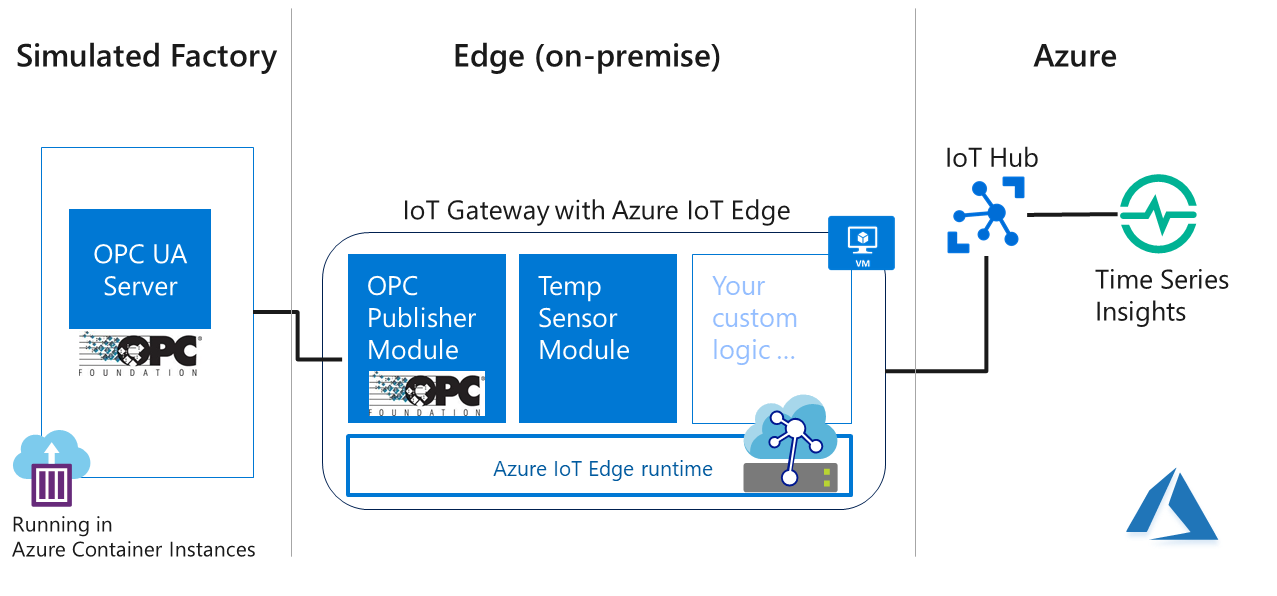
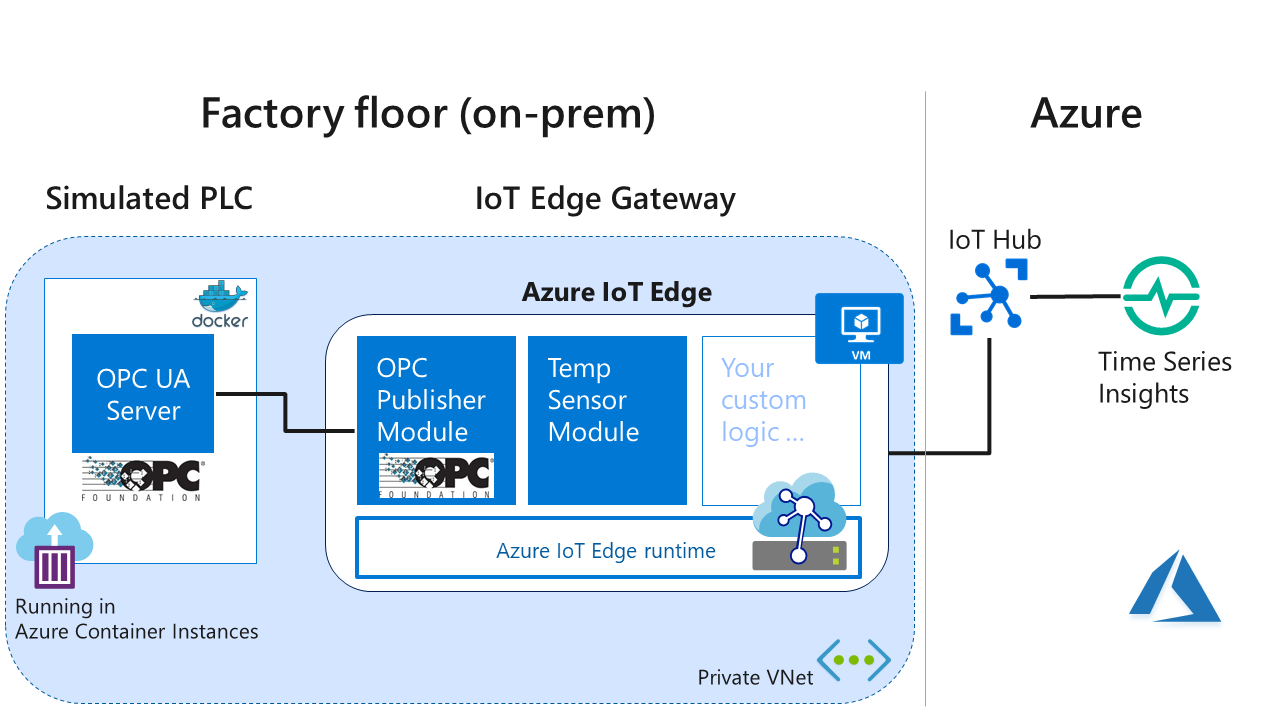
Enabled vnet deployment of ACI container, updated description

diff --git a/README.md b/README.md
@@ -23,8 +23,10 @@ deploy in the lab.
 
 ![](./media/image2.png)
 
-For the purpose of this lab, the simulated factory OPC UA server is
-provided in a Docker container running in an Azure Container Instance. But you can just as easily exchange this for any other OPC UA server.
+For the purpose of this lab, a simulated PLC providing OPC UA server is
+running in a Docker container running in an Azure Container Instance. But you can just as easily exchange this for any other OPC UA server.  
+The simulated PLC and the IoT Edge Gateway are both part of a private virtual network and thus mimics a real-life scenario where the PLCs on a factory shopfloor won't have any connectivity outside of the factory network. The IoT Edge  therefore provides a secure gateway mechanism to connect the PLC to the IoT Hub in Azure.  
+On the Azure side, we will set up a Time Series Insights instance to quickly gather first insights into the data.
 
 ### **Disclaimer**: This lab requires an Azure Subscription. A couple of resources will be created which do incur some small cost. We recommend to delete the resources when you are finished with the lab and don't need them anymore. If you do not have an Azure Subscription yet, you can also do this lab with a [free trial subscription]( https://azure.microsoft.com/en-us/free/)
 
